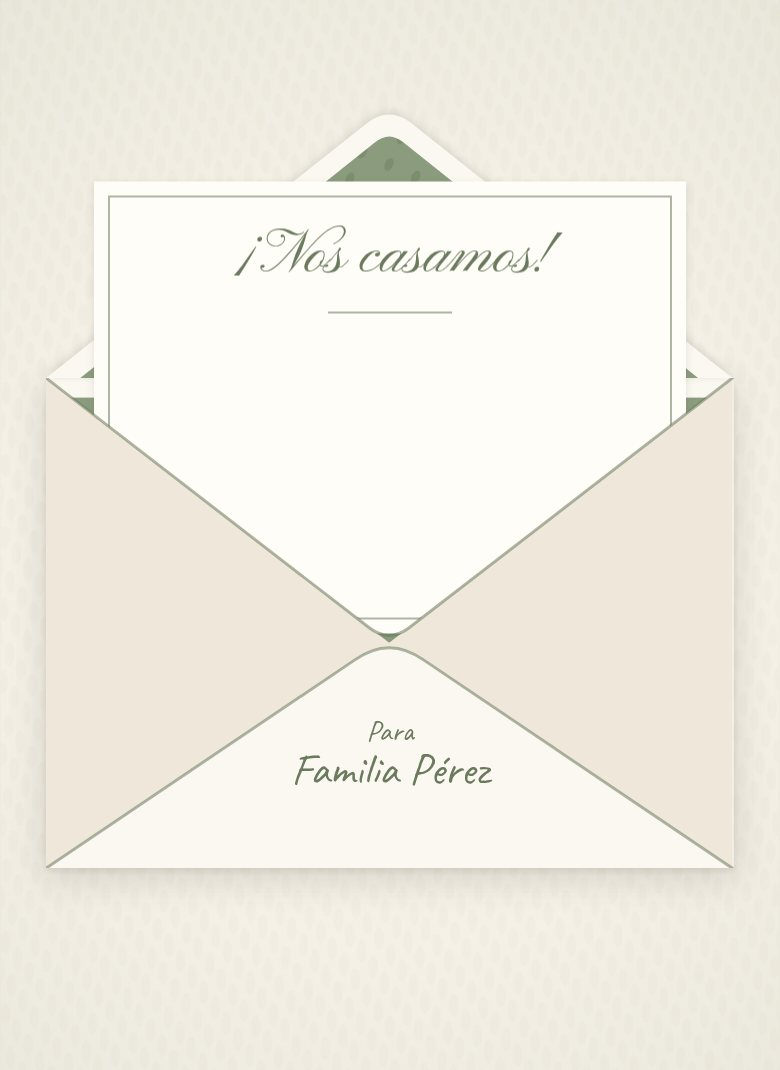
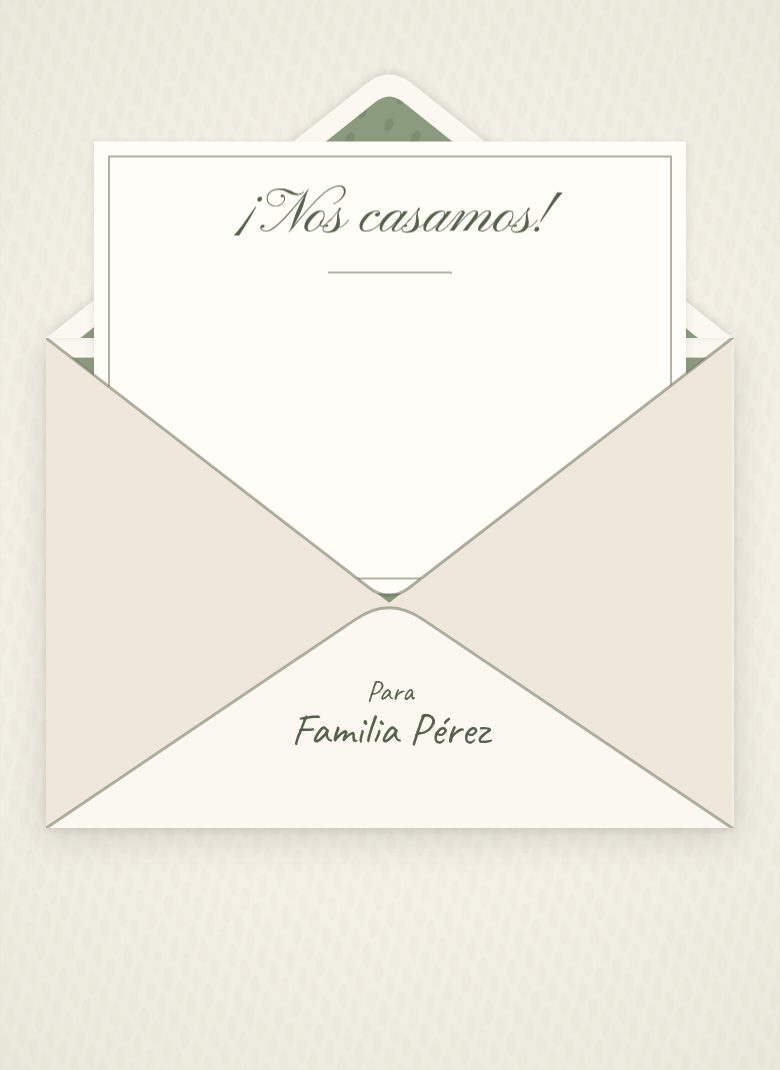
[IMP] Call the demo couple Novia and Novio, with fake phone numbers
The public demo shouldn't carry names or numbers that could belong to
real people.

- The couple is "Novia & Novio" in the config, the README and the tests
- Example phone numbers are all zeros (+52 000 000 00 00): the old ones
  looked like real Mexico City numbers
- Envelope and hero screenshots retaken

Changed region(s): [[0.0615, 0.3084, 0.9231, 0.8327], [0.1231, 0.0925, 0.8615, 0.2776]]

diff --git a/plugins/vite-plugin-invitation.test.js b/plugins/vite-plugin-invitation.test.js
@@ -4,7 +4,7 @@ import invitation from './vite-plugin-invitation.js';
 
 const config = {
 	site: { url: 'https://example.com/boda/', description: 'Línea 1\nLínea 2' },
-	couple: { partner1: 'ángela', partner2: 'Daniel', joiner: '&' },
+	couple: { partner1: 'ángela', partner2: 'Novio', joiner: '&' },
 	date: '2027-05-15T17:00:00-06:00',
 	ceremony: {
 		venue: 'Parroquia de San José',
@@ -47,8 +47,8 @@ test('in attributes, collapses line breaks and joins lists with commas', () => {
 });
 
 test('derives the names, the initials for the wax seal and the date parts', () => {
-	assert.equal(render('{{ couple.names }}'), 'ángela &amp; Daniel');
-	assert.equal(render('{{ couple.initials.partner1 }}{{ couple.initials.partner2 }}'), 'ÁD');
+	assert.equal(render('{{ couple.names }}'), 'ángela &amp; Novio');
+	assert.equal(render('{{ couple.initials.partner1 }}{{ couple.initials.partner2 }}'), 'ÁN');
 	assert.equal(
 		render('{{ date.day }} {{ date.month }} {{ date.monthShort }} {{ date.year }}'),
 		'15 Mayo May 2027',
@@ -82,7 +82,7 @@ test('links to a Google Calendar event from the ceremony start, lasting calendar
 
 	assert.equal(url.origin + url.pathname, 'https://calendar.google.com/calendar/render');
 	assert.equal(url.searchParams.get('dates'), '20270515T230000Z/20270516T070000Z');
-	assert.equal(url.searchParams.get('text'), 'Boda de ángela & Daniel');
+	assert.equal(url.searchParams.get('text'), 'Boda de ángela & Novio');
 	assert.equal(url.searchParams.get('location'), 'Parroquia de San José');
 	assert.match(url.searchParams.get('details'), /\nRecepción: Jardín Las Flores, 7:30 pm\n/);
 });
@@ -107,7 +107,7 @@ test('writes an iCalendar file with escaped text and lines of at most 75 bytes',
 		'lines folded at 75 bytes',
 	);
 	assert.match(unfolded, /\r\nDTSTART:20270515T230000Z\r\nDTEND:20270516T070000Z\r\n/);
-	assert.match(unfolded, /\r\nSUMMARY:Boda de ángela & Daniel\r\n/);
+	assert.match(unfolded, /\r\nSUMMARY:Boda de ángela & Novio\r\n/);
 	assert.match(
 		unfolded,
 		/\r\nDESCRIPTION:Ceremonia: Parroquia de San José\\, 5:00 pm\\nhttps:\/\/maps\.example\/a\\n/,

diff --git a/apps-script/apps-script.test.js b/apps-script/apps-script.test.js
@@ -5,11 +5,11 @@ import vm from 'node:vm';
 
 const HEADERS = ['Fecha', 'Nombre', 'Teléfono', 'Ceremonia', 'Recepción', 'Invitación'];
 const ANSWER = {
-	nombre: 'Ana López',
-	telefono: '+52 555 000 00 00',
+	nombre: 'Invitada de Ejemplo',
+	telefono: '+52 000 000 00 00',
 	ceremonia: 'Sí',
 	recepcion: 'No',
-	invitacion: 'Familia López',
+	invitacion: 'Familia Ejemplo',
 };
 
 // Runs the Apps Script files in a sandbox, with fakes for the Google services they use.
@@ -58,11 +58,11 @@ test('appends one row per answer, with the invitation it came from', () => {
 	assert.deepEqual(post(ANSWER), { ok: true });
 	assert.deepEqual(rows[0], HEADERS);
 	assert.deepEqual(rows[1].slice(1), [
-		'Ana López',
-		"'+52 555 000 00 00",
+		'Invitada de Ejemplo',
+		"'+52 000 000 00 00",
 		'Sí',
 		'No',
-		'Familia López',
+		'Familia Ejemplo',
 	]);
 });
 

diff --git a/src/scripts/rsvp.js b/src/scripts/rsvp.js
@@ -14,7 +14,7 @@ const DEMO_DELAY_MS = 800;
 // Strips anything that isn't a digit or a leading "+", then groups the
 // local 10 digits as XXX XXX XX XX. If a country code is present
 // (digits beyond the last 10, only when the value starts with "+"),
-// it's kept separate: "+52 555 000 00 00".
+// it's kept separate: "+52 000 000 00 00".
 function formatPhoneInput(raw) {
 	const hasPlus = raw.trim().startsWith('+');
 	const digits = raw.replace(/\D/g, '');

diff --git a/src/invitation.config.js b/src/invitation.config.js
@@ -20,8 +20,8 @@ export default {
 	},
 
 	couple: {
-		partner1: 'Valeria',
-		partner2: 'Daniel',
+		partner1: 'Novia',
+		partner2: 'Novio',
 		// Joins the two names in the page title, link preview and header ("&" or "y").
 		joiner: '&',
 		photo: '/assets/images/photo-placeholder.svg',

diff --git a/README.md b/README.md
@@ -12,9 +12,9 @@ The site copy is in Spanish; the code and documentation are in English.
 
 Phone viewport (390px wide) with the placeholder content.
 
-|                                                                            The envelope, with the guest's name from the link                                                                             |                                                                          Opening it                                                                           |
-| :------------------------------------------------------------------------------------------------------------------------------------------------------------------------------------------------------: | :-----------------------------------------------------------------------------------------------------------------------------------------------------------: |
-| <img src="docs/screenshots/envelope.jpg" width="260" alt="Envelope sealed with a sage wax seal showing the initials V and D, addressed to Familia Pérez, under the names Valeria & Daniel and the date"> | <img src="docs/screenshots/envelope-opening.jpg" width="260" alt="The opened envelope with its patterned liner and a card reading ¡Nos casamos! sliding out"> |
+|                                                                           The envelope, with the guest's name from the link                                                                           |                                                                          Opening it                                                                           |
+| :---------------------------------------------------------------------------------------------------------------------------------------------------------------------------------------------------: | :-----------------------------------------------------------------------------------------------------------------------------------------------------------: |
+| <img src="docs/screenshots/envelope.jpg" width="260" alt="Envelope sealed with a sage wax seal showing the initials N and N, addressed to Familia Pérez, under the names Novia & Novio and the date"> | <img src="docs/screenshots/envelope-opening.jpg" width="260" alt="The opened envelope with its patterned liner and a card reading ¡Nos casamos! sliding out"> |
 
 |                                                                    Hero and ceremony                                                                     |                                                                            Dress code, gifts and countdown                                                                             |                                                          RSVP                                                           |
 | :------------------------------------------------------------------------------------------------------------------------------------------------------: | :------------------------------------------------------------------------------------------------------------------------------------------------------------------------------------: | :---------------------------------------------------------------------------------------------------------------------: |
@@ -29,7 +29,7 @@ Phone viewport (390px wide) with the placeholder content.
 - **Scroll-reveal animations** with `IntersectionObserver`, starting once the envelope is open. Blocks that come into view together appear one after another. They are opt-in: content only starts hidden when the visitor allows motion (`prefers-reduced-motion: no-preference`) and JavaScript is running, so it's never stuck invisible. With reduced motion, the envelope simply fades away.
 - **Live countdown** to the ceremony, read from the config, replaced by "¡Llegó el gran día!" once the day comes.
 - **Add to calendar:** under the countdown, a Google Calendar link and an `.ics` file for iPhone and Outlook, both made from the config at build time, with the two venues and the invitation link in the event.
-- **RSVP form** with Sí/No toggles per event, phone formatting (`+52 555 000 00 00`), validation messages in the form itself rather than pop-up alerts, a honeypot field against bots and two backends: a network-free **demo** mode and a **Google Apps Script** mode that writes each answer to a Google Sheet.
+- **RSVP form** with Sí/No toggles per event, phone formatting (`+52 000 000 00 00`), validation messages in the form itself rather than pop-up alerts, a honeypot field against bots and two backends: a network-free **demo** mode and a **Google Apps Script** mode that writes each answer to a Google Sheet.
 - **Link previews that work on WhatsApp:** the page title and Open Graph tags are in the static HTML, generated from the config by a small Vite plugin. Link-preview crawlers don't run JavaScript.
 - **One config file:** `src/invitation.config.js`. A placeholder without a matching value fails the build instead of shipping `{{ … }}` to guests.
 - **Accessible:** a real `<h1>` and section headings for screen readers (the visible titles are drawn into the artwork), labelled form controls and toggle groups, the invitation kept out of reach (`inert`) behind the closed envelope, focus moved to the invitation once it opens and to the confirmation message after sending, and `autocomplete` hints.
@@ -54,7 +54,7 @@ npm run dev # then open the URL Vite prints (it includes the base path from site
 | `site.url`                                            | Public URL of the deployed site, without a trailing slash. Used for `og:url` and for the absolute `og:image` URL that WhatsApp needs. Its path is also the base the site is built for, e.g. `/<repo>/` on GitHub Pages. |
 | `site.description`                                    | Meta description and link-preview text.                                                                                                                                                                                 |
 | `site.ogImage`, `site.ogImageAlt`                     | Link-preview image (1200×630) and its alt text.                                                                                                                                                                         |
-| `couple.partner1`, `couple.partner2`, `couple.joiner` | Names, joined as "Valeria & Daniel" in the page title, link preview and header.                                                                                                                                         |
+| `couple.partner1`, `couple.partner2`, `couple.joiner` | Names, joined as "Novia & Novio" in the page title, link preview and header.                                                                                                                                            |
 | `couple.photo`                                        | Photo next to the welcome text (586×612 frame; other shapes are cropped, not stretched).                                                                                                                                |
 | `date`                                                | Ceremony start in ISO 8601 with the venue's UTC offset, e.g. `2027-05-15T17:00:00-06:00`. Drives the countdown and every displayed date.                                                                                |
 | `intro`                                               | Welcome text next to the photo.                                                                                                                                                                                         |
@@ -99,7 +99,7 @@ To make the links for a whole guest list, put the names in column A of a Google 
 ="https://lfrocharod.github.io/wedding-invitation-template/?para="&ENCODEURL(A2)
 ```
 
-With phone numbers in column C (country code included, digits only, e.g. `525512345678`), this in D2 makes a link that opens WhatsApp with the message ready to send (in a sheet set to a locale with a decimal comma, such as Spain's, separate the arguments with `;`):
+With phone numbers in column C (country code included, digits only, e.g. `520000000000`), this in D2 makes a link that opens WhatsApp with the message ready to send (in a sheet set to a locale with a decimal comma, such as Spain's, separate the arguments with `;`):
 
 ```text
 =HYPERLINK("https://wa.me/"&C2&"?text="&ENCODEURL("¡Hola! Con mucho cariño te compartimos nuestra invitación: "&B2), "Enviar")
